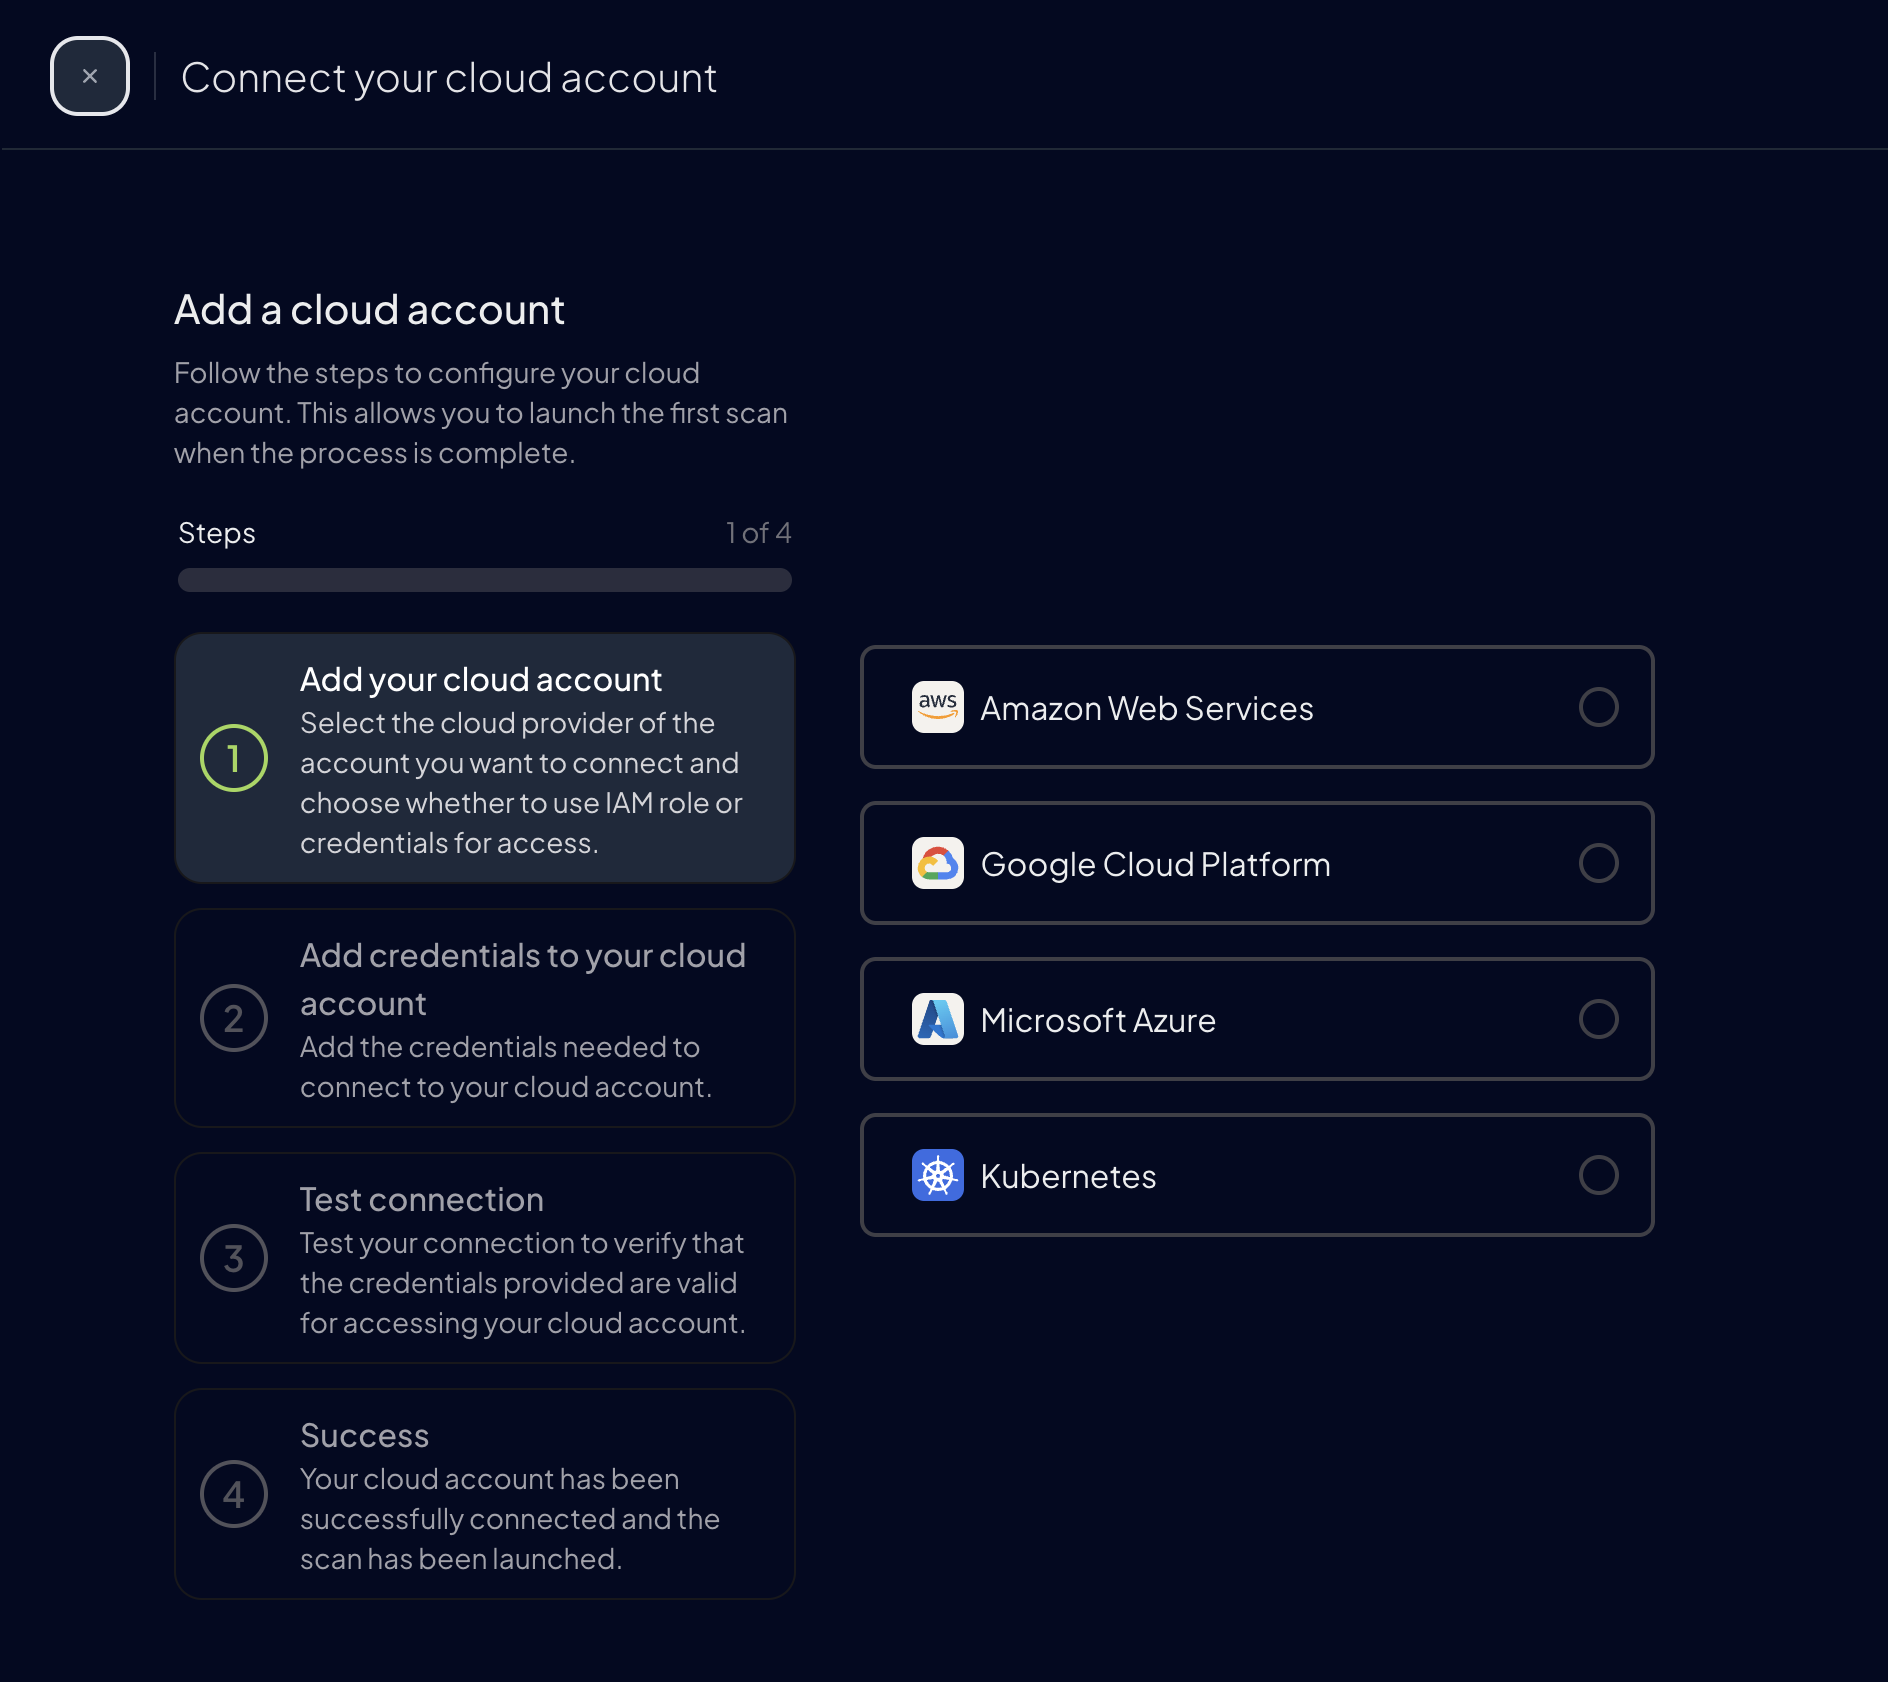
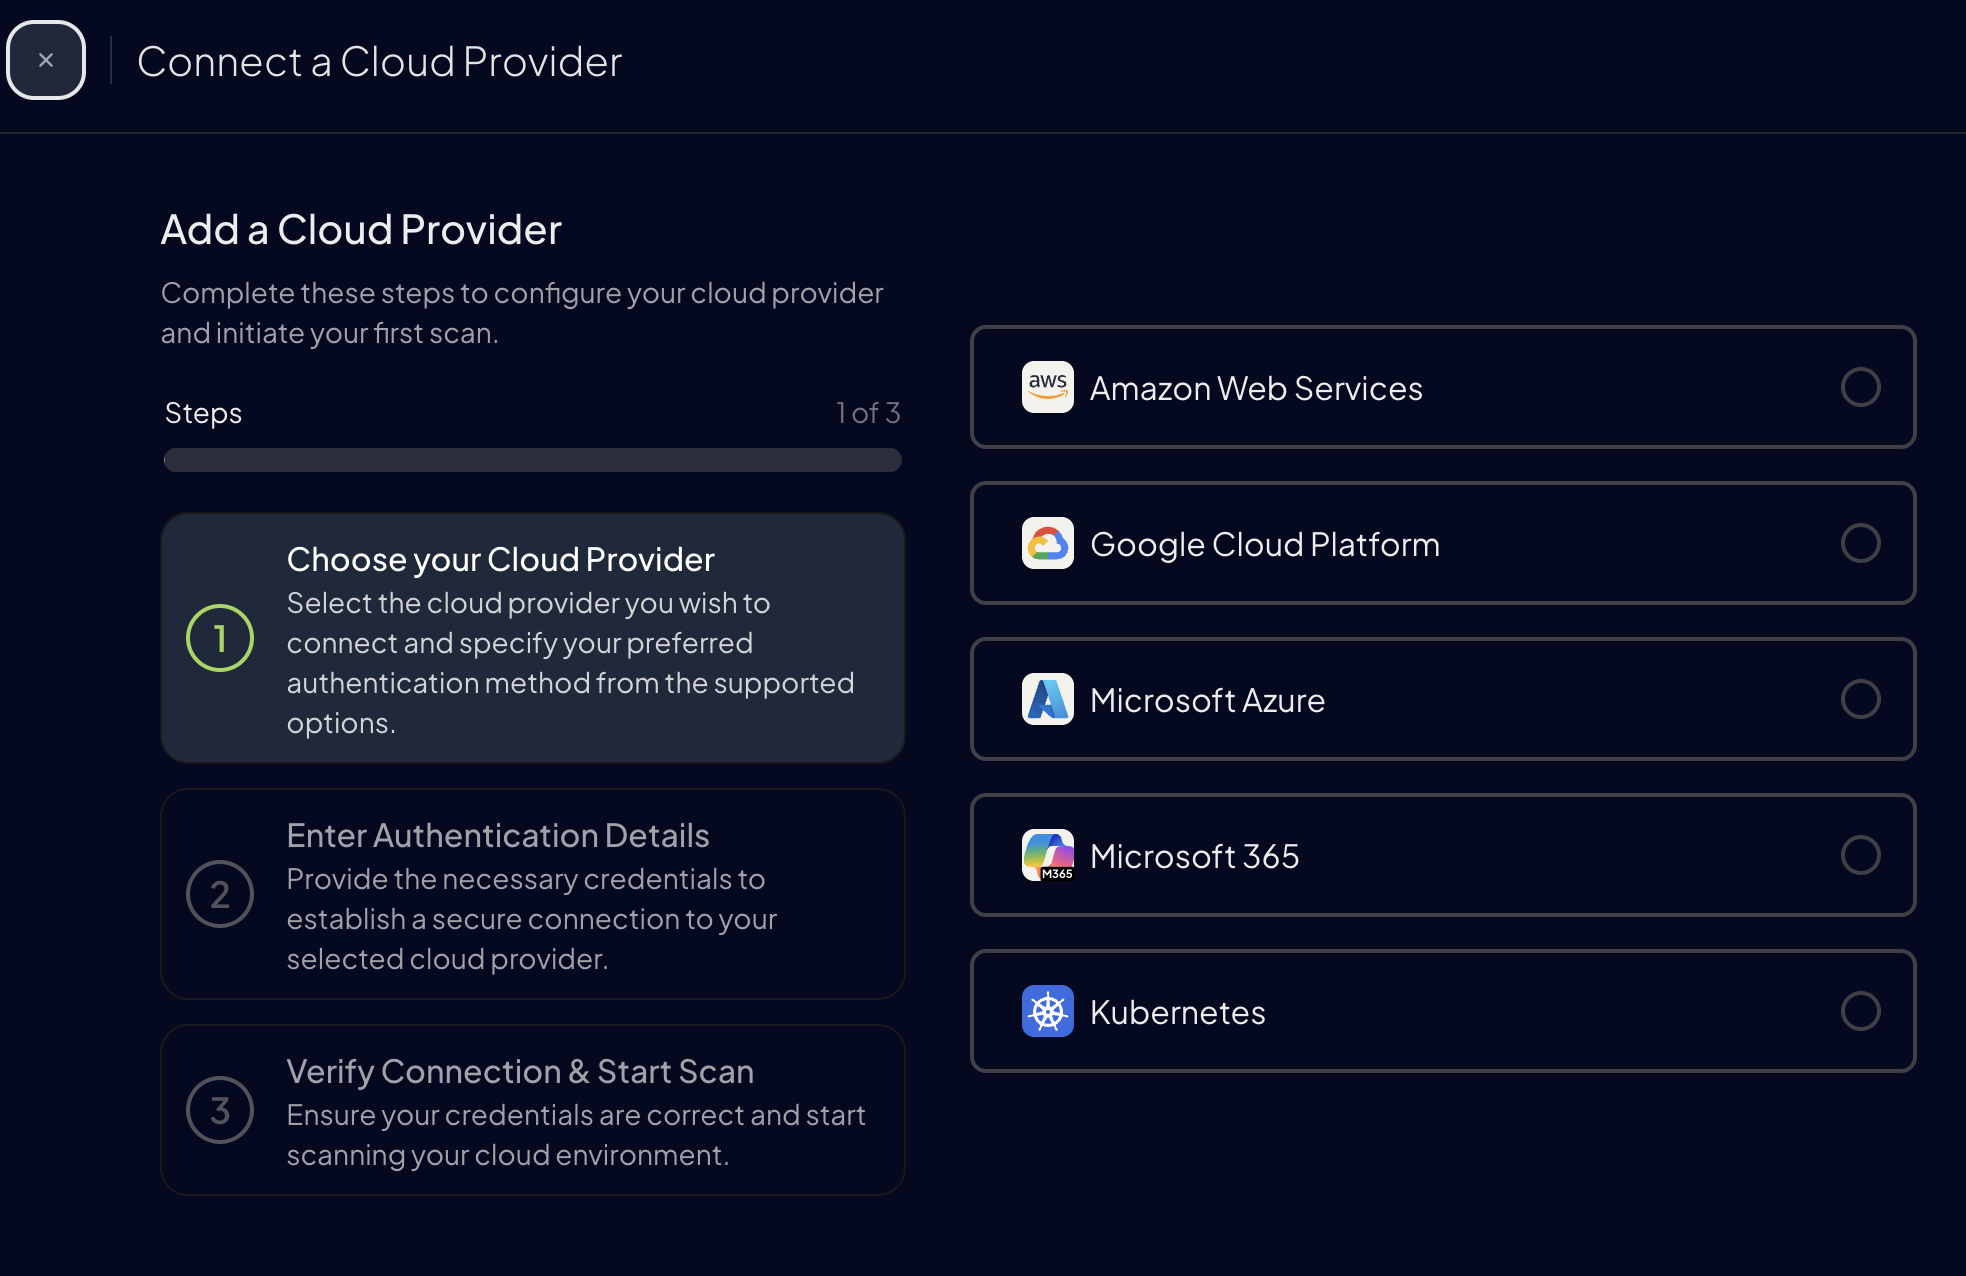
chore(app): enhance app tutorial docs

diff --git a/docs/tutorials/prowler-app.md b/docs/tutorials/prowler-app.md
@@ -9,26 +9,27 @@ After [installing](../index.md#prowler-app-installation) **Prowler App**, access
 ???+ note
     If you are a [Prowler Cloud](https://cloud.prowler.com/sign-in) user, you can access API docs at [https://api.prowler.com/api/v1/docs](https://api.prowler.com/api/v1/docs)
 
-### **Step 1: Sign Up**
+## **Step 1: Sign Up**
 
-#### **Sign Up with Email**
+### **Sign Up with Email**
 
 To get started, sign up using your email and password:
 
 <img src="../../img/sign-up-button.png" alt="Sign Up Button" width="320"/>
 <img src="../../img/sign-up.png" alt="Sign Up" width="285"/>
 
-#### **Sign Up with Social Login**
+### **Sign Up with Social Login**
 
 If Social Login is enabled, you can sign up using your preferred provider (e.g., Google, GitHub).
 
-???+ note
-    "How Social Login Works" - If your email is already registered, you will be logged in, and your social account will be linked. \- If your email is not registered, a new account will be created using your social account email.
+???+ note "How Social Login Works"
+    If your email is already registered, you will be logged in, and your social account will be linked.
+    If your email is not registered, a new account will be created using your social account email.
 
-???+ note
-    "Enable Social Login" - See [how to configure Social Login for Prowler](prowler-app-social-login.md) to enable this feature in your own deployments.
+???+ note "Enable Social Login"
+    See [how to configure Social Login for Prowler](prowler-app-social-login.md) to enable this feature in your own deployments.
 
-### **Step 2: Log In**
+## **Step 2: Log In**
 
 Once registered, log in with your email and password to access Prowler App.
 
@@ -36,24 +37,28 @@ Once registered, log in with your email and password to access Prowler App.
 
 Upon logging in, the Overview page will display. At this stage, no data is present: add a provider to begin scanning your cloud environment.
 
-### **Step 3: Add a Provider**
+## **Step 3: Add a Provider**
 
 To perform security scans, link a cloud provider account. Prowler supports the following providers:
 
-\*AWS\*
+- **AWS**
 
-\*Azure\*
+- **Azure**
 
-\*Google Cloud Platform (GCP)\*
+- **Google Cloud Platform (GCP)**
 
-\*Kubernetes\*
+- **Kubernetes**
+
+- **M365**
+
+Steps to add a provider:
 
 1. Navigate to `Settings > Cloud Providers`.
-2. Click `Add Account` to set up a new provider and provide your credentials:
+2. Click `Add Account` to set up a new provider and provide your credentials.
 
 <img src="../../img/add-provider.png" alt="Add Provider" width="700"/>
 
-### **Step 4: Configure the Provider**
+## **Step 4: Configure the Provider**
 
 Select the cloud provider you want to scan.
 
@@ -65,55 +70,58 @@ Once chosen, enter the Provider UID for authentication:
 - **GCP**: Enter your GCP Project ID.
 - **Azure**: Enter your Azure Subscription ID.
 - **Kubernetes**: Enter your Kubernetes Cluster context of your kubeconfig file.
+- **M365**: Enter your M365 Domain ID.
 
 Optionally, provide a **Provider Alias** for easier identification. Follow the instructions provided to add your credentials:
 
-#### **Step 4.1: AWS Credentials** For AWS, enter your `AWS Account ID` and choose one of the following methods to connect:
+### **Step 4.1: AWS Credentials**
 
-##### **Step 4.1.1: IAM Access Keys**
+For AWS, enter your `AWS Account ID` and choose one of the following methods to connect:
+
+#### **Step 4.1.1: IAM Access Keys**
 
 1. Select `Connect via Credentials`.
 
-<img src="../../img/connect-aws-credentials.png" alt="AWS Credentials" width="350"/>
+    <img src="../../img/connect-aws-credentials.png" alt="AWS Credentials" width="350"/>
 
 2. Enter your `Access Key ID`, `Secret Access Key` and optionally a `Session Token`:
 
-<img src="../../img/aws-credentials.png" alt="AWS Credentials" width="350"/>
+    <img src="../../img/aws-credentials.png" alt="AWS Credentials" width="350"/>
 
-##### **Step 4.1.2: IAM Role**
+#### **Step 4.1.2: IAM Role**
 
 1. Select `Connect assuming IAM Role`.
 
-<img src="../../img/connect-aws-role.png" alt="AWS Role" width="350"/>
+    <img src="../../img/connect-aws-role.png" alt="AWS Role" width="350"/>
 
 2. Enter the `Role ARN` and any optional field like the AWS Access Keys to assume the role, the `External ID`, the `Role Session Name` or the `Session Duration`:
 
-<img src="../../img/aws-role.png" alt="AWS Role" width="700"/>
+    <img src="../../img/aws-role.png" alt="AWS Role" width="700"/>
 
 ???+ note
     Check if your AWS Security Token Service (STS) has the EU (Ireland) endpoint active. If not, we will not be able to connect to your AWS account.
 
-If that is the case your STS configuration may look like this:
+    If that is the case your STS configuration may look like this:
 
-<img src="../../img/sts-configuration.png" alt="AWS Role" width="800"/>
+    <img src="../../img/sts-configuration.png" alt="AWS Role" width="800"/>
 
-To solve this issue, please activate the EU (Ireland) STS endpoint.
+    To solve this issue, please activate the EU (Ireland) STS endpoint.
 
-##### **Step 4.2: Azure Credentials**:
+### **Step 4.2: Azure Credentials**:
 
 For Azure, Prowler App uses a service principal application to authenticate. For more information about the process of creating and adding permissions to a service principal refer to this [section](../getting-started/requirements.md#azure). When you finish creating and adding the [Entra](./azure/create-prowler-service-principal.md#assigning-the-proper-permissions) and [Subscription](./azure/subscriptions.md#assign-the-appropriate-permissions-to-the-identity-that-is-going-to-be-assumed-by-prowler) scope permissions to the service principal, enter the `Tenant ID`, `Client ID` and `Client Secret` of the service principal application.
 
 <img src="../../img/azure-credentials.png" alt="Azure Credentials" width="700"/>
 
-##### **Step 4.3: GCP Credentials**:
+### **Step 4.3: GCP Credentials**:
 
 To connect your GCP Project, you need to use the Application Default Credentials (ADC) returned by the `gcloud` CLI. For setting up:
 
 1. Run the following command in your terminal to authenticate with GCP:
 
-```bash
-gcloud auth application-default login
-```
+    ```bash
+    gcloud auth application-default login
+    ```
 
 2. Once authenticated, get the `Client ID`, `Client Secret` and `Refresh Token` from `~/.config/gcloud/application_default_credentials`.
 
@@ -121,7 +129,7 @@ gcloud auth application-default login
 
 <img src="../../img/gcp-credentials.png" alt="GCP Credentials" width="700"/>
 
-##### **Step 4.4: Kubernetes Credentials**:
+### **Step 4.4: Kubernetes Credentials**:
 
 For Kubernetes, Prowler App uses a `kubeconfig` file to authenticate, paste the contents of your `kubeconfig` file into the `Kubeconfig content` field.
 
@@ -135,37 +143,43 @@ If you are adding an **EKS**, **GKE**, **AKS** or external cluster, follow these
 
 1. Apply the necessary Kubernetes resources to your EKS, GKE, AKS or external cluster (you can find the files in the [`kubernetes` directory of the Prowler repository](https://github.com/prowler-cloud/prowler/tree/master/kubernetes)):
 
-```console
-kubectl apply -f kubernetes/prowler-sa.yaml
-kubectl apply -f kubernetes/prowler-role.yaml
-kubectl apply -f kubernetes/prowler-rolebinding.yaml
-```
+    ```console
+    kubectl apply -f kubernetes/prowler-sa.yaml
+    kubectl apply -f kubernetes/prowler-role.yaml
+    kubectl apply -f kubernetes/prowler-rolebinding.yaml
+    ```
 
 2. Generate a long-lived token for authentication:
 
-```console
-kubectl create token prowler-sa -n prowler-ns --duration=0
-```
+    ```console
+    kubectl create token prowler-sa -n prowler-ns --duration=0
+    ```
 
-- **Security Note:** The `--duration=0` option generates a non-expiring token, which may pose a security risk if not managed properly. Users should decide on an appropriate expiration time based on their security policies. If a limited-time token is preferred, set `--duration=<TIME>` (e.g., `--duration=24h`).
-- **Important:** If the token expires, Prowler Cloud will no longer be able to authenticate with the cluster. In this case, you will need to generate a new token and **remove and re-add the provider in Prowler Cloud** with the updated `kubeconfig`.
+    - **Security Note:** The `--duration=0` option generates a non-expiring token, which may pose a security risk if not managed properly. Users should decide on an appropriate expiration time based on their security policies. If a limited-time token is preferred, set `--duration=<TIME>` (e.g., `--duration=24h`).
+    - **Important:** If the token expires, Prowler Cloud will no longer be able to authenticate with the cluster. In this case, you will need to generate a new token and **remove and re-add the provider in Prowler Cloud** with the updated `kubeconfig`.
 
 3. Update your `kubeconfig` to use the ServiceAccount token:
 
-```console
-kubectl config set-credentials prowler-sa --token=<SA_TOKEN>
-kubectl config set-context <CONTEXT_NAME> --user=prowler-sa
-```
+    ```console
+    kubectl config set-credentials prowler-sa --token=<SA_TOKEN>
+    kubectl config set-context <CONTEXT_NAME> --user=prowler-sa
+    ```
 
-Replace <SA_TOKEN> with the generated token and <CONTEXT_NAME> with your KubeConfig Context Name of your EKS, GKE or AKS cluster.
+    Replace `<SA_TOKEN>` with the generated token and `<CONTEXT_NAME>` with your KubeConfig Context Name of your EKS, GKE or AKS cluster.
 
 4. Now you can add the modified `kubeconfig` in Prowler Cloud. Then test the connection.
 
-### **Step 5: Test Connection**
+### **Step 4.5: M365 Credentials**
+For M365, Prowler App uses a service principal application with user and password to authenticate, for more information about the requirements needed for this provider check this [section](../getting-started/requirements.md#microsoft-365). Also, the detailed steps of how to add this provider to Prowler Cloud and start using it are [here](./microsoft365/getting-started-m365.md).
+
+<img src="../../img/m365-credentials.png" alt="Prowler Cloud M365 Credentials" width="700"/>
+
+## **Step 5: Test Connection**
 
 After adding your credentials of your cloud account, click the `Launch` button to verify that Prowler App can successfully connect to your provider:
 
 <img src="../../img/test-connection-button.png" alt="Test Connection" width="700"/>
+
 ## **Step 6: Scan started**
 
 After successfully adding and testing your credentials, Prowler will start scanning your cloud environment, click the `Go to Scans` button to see the progress:
@@ -175,47 +189,67 @@ After successfully adding and testing your credentials, Prowler will start scann
 ???+ note
     Prowler will automatically scan all configured providers every **24 hours**, ensuring your cloud environment stays continuously monitored.
 
-## **Step 6: Scan started**
-
-After successfully adding and testing your credentials, Prowler will start scanning your cloud environment, click on the `Go to Scans` button to see the progress:
-
-<img src="../../img/provider-added.png" alt="Start Now" width="700"/>
-
 ## **Step 7: Monitor Scan Progress**
 
 Track the progress of your scan in the `Scans` section:
 
 <img src="../../img/scan-progress.png" alt="Scan Progress" width="700"/>
 
-???+ note
-    Prowler will automatically scan all configured providers every **24 hours**, ensuring your cloud environment stays continuously monitored.
 
 ## **Step 8: Analyze the Findings**
 
 While the scan is running, start exploring the findings in these sections:
 
-- **Overview**: High-level summary of the scans. <img src="../../img/overview.png" alt="Overview" width="700"/>
-- **Compliance**: Insights into compliance status. <img src="../../img/compliance.png" alt="Compliance" width="700"/>
+- **Overview**: High-level summary of the scans.
+
+    <img src="../../img/overview.png" alt="Overview" width="700"/>
+
+- **Compliance**: Insights into compliance status.
+
+    <img src="../../img/compliance.png" alt="Compliance" width="700"/>
+
 - **Issues**: Types of issues detected.
 
-<img src="../../img/issues.png" alt="Issues" width="300" style="text-align: center;"/>
+    <img src="../../img/issues.png" alt="Issues" width="300" style="text-align: center;"/>
 
 - **Browse All Findings**: Detailed list of findings detected, where you can filter by severity, service, and more.
 
-<img src="../../img/findings.png" alt="Findings" width="700"/>
+    <img src="../../img/findings.png" alt="Findings" width="700"/>
 
 To view all `new` findings that have not been seen prior to this scan, click the `Delta` filter and select `new`. To view all `changed` findings that have had a status change (from `PASS` to `FAIL` for example), click the `Delta` filter and select `changed`.
 
 ## **Step 9: Download the Outputs**
 
-Once the scan is complete, you can download the output files generated by Prowler as a single `zip` file. This archive contains the CSV, JSON-OSCF, and HTML reports detailing the findings.
+Once a scan is complete, navigate to the Scan Jobs section to download the output files generated by Prowler:
+
+<img src="../../img/scan_jobs_section.png" alt="Scan Jobs section" width="700"/>
+
+You can download the output files generated by Prowler as a single `zip` file. This archive contains the CSV, JSON-OSCF, and HTML reports detailing the findings.
 
 To download these files, click the **Download** button. This button becomes available only after the scan has finished.
 
 <img src="../../img/download_output.png" alt="Download output" width="700"/>
-This action downloads a `zip` file containing an `output` folder, which includes the files mentioned above: CSV, JSON-OSCF, and HTML reports.
+
+The `zip` file unpacks into a folder named like `prowler-output-<provider_id>-<timestamp>`, which includes all of the above outputs. In the example below, you can see the `.csv`, .`json`, and `.html` reports alongside a subfolder for detailed compliance checks.
 
 <img src="../../img/output_folder.png" alt="Output folder" width="700"/>
 
-    ???+ note
-        To learn more about the API endpoint the UI uses to download ZIP exports, see: [Prowler API Reference - Download Scan Output](https://api.prowler.com/api/v1/docs#tag/Scan/operation/scans_report_retrieve)
+???+ note "API Note"
+    For more information about the API endpoint used by the UI to download the ZIP archive, refer to: [Prowler API Reference - Download Scan Output](https://api.prowler.com/api/v1/docs#tag/Scan/operation/scans_report_retrieve)
+
+## **Step 10: Download specified compliance report**
+
+Once your scan has finished, you don’t need to grab the entire ZIP—just pull down the specific compliance report you want:
+
+- Navigate to the **Compliance** section of the UI.
+
+<img src="../../img/compliance_section.png" alt="Compliance section" width="700"/>
+
+- Find the Framework report you need.
+
+- Click its **Download** icon to retrieve that report’s CSV file with all the detailed findings.
+
+<img src="../../img/compliance_download.png" alt="Download compliance output" width="700"/>
+
+???+ note "API Note"
+    To fetch a single compliance report via API, see the Retrieve compliance report as CSV endpoint in the Prowler API Reference.[Prowler API Reference - Retrieve compliance report as CSV](https://api.prowler.com/api/v1/docs#tag/Scan/operation/scans_compliance_retrieve)
